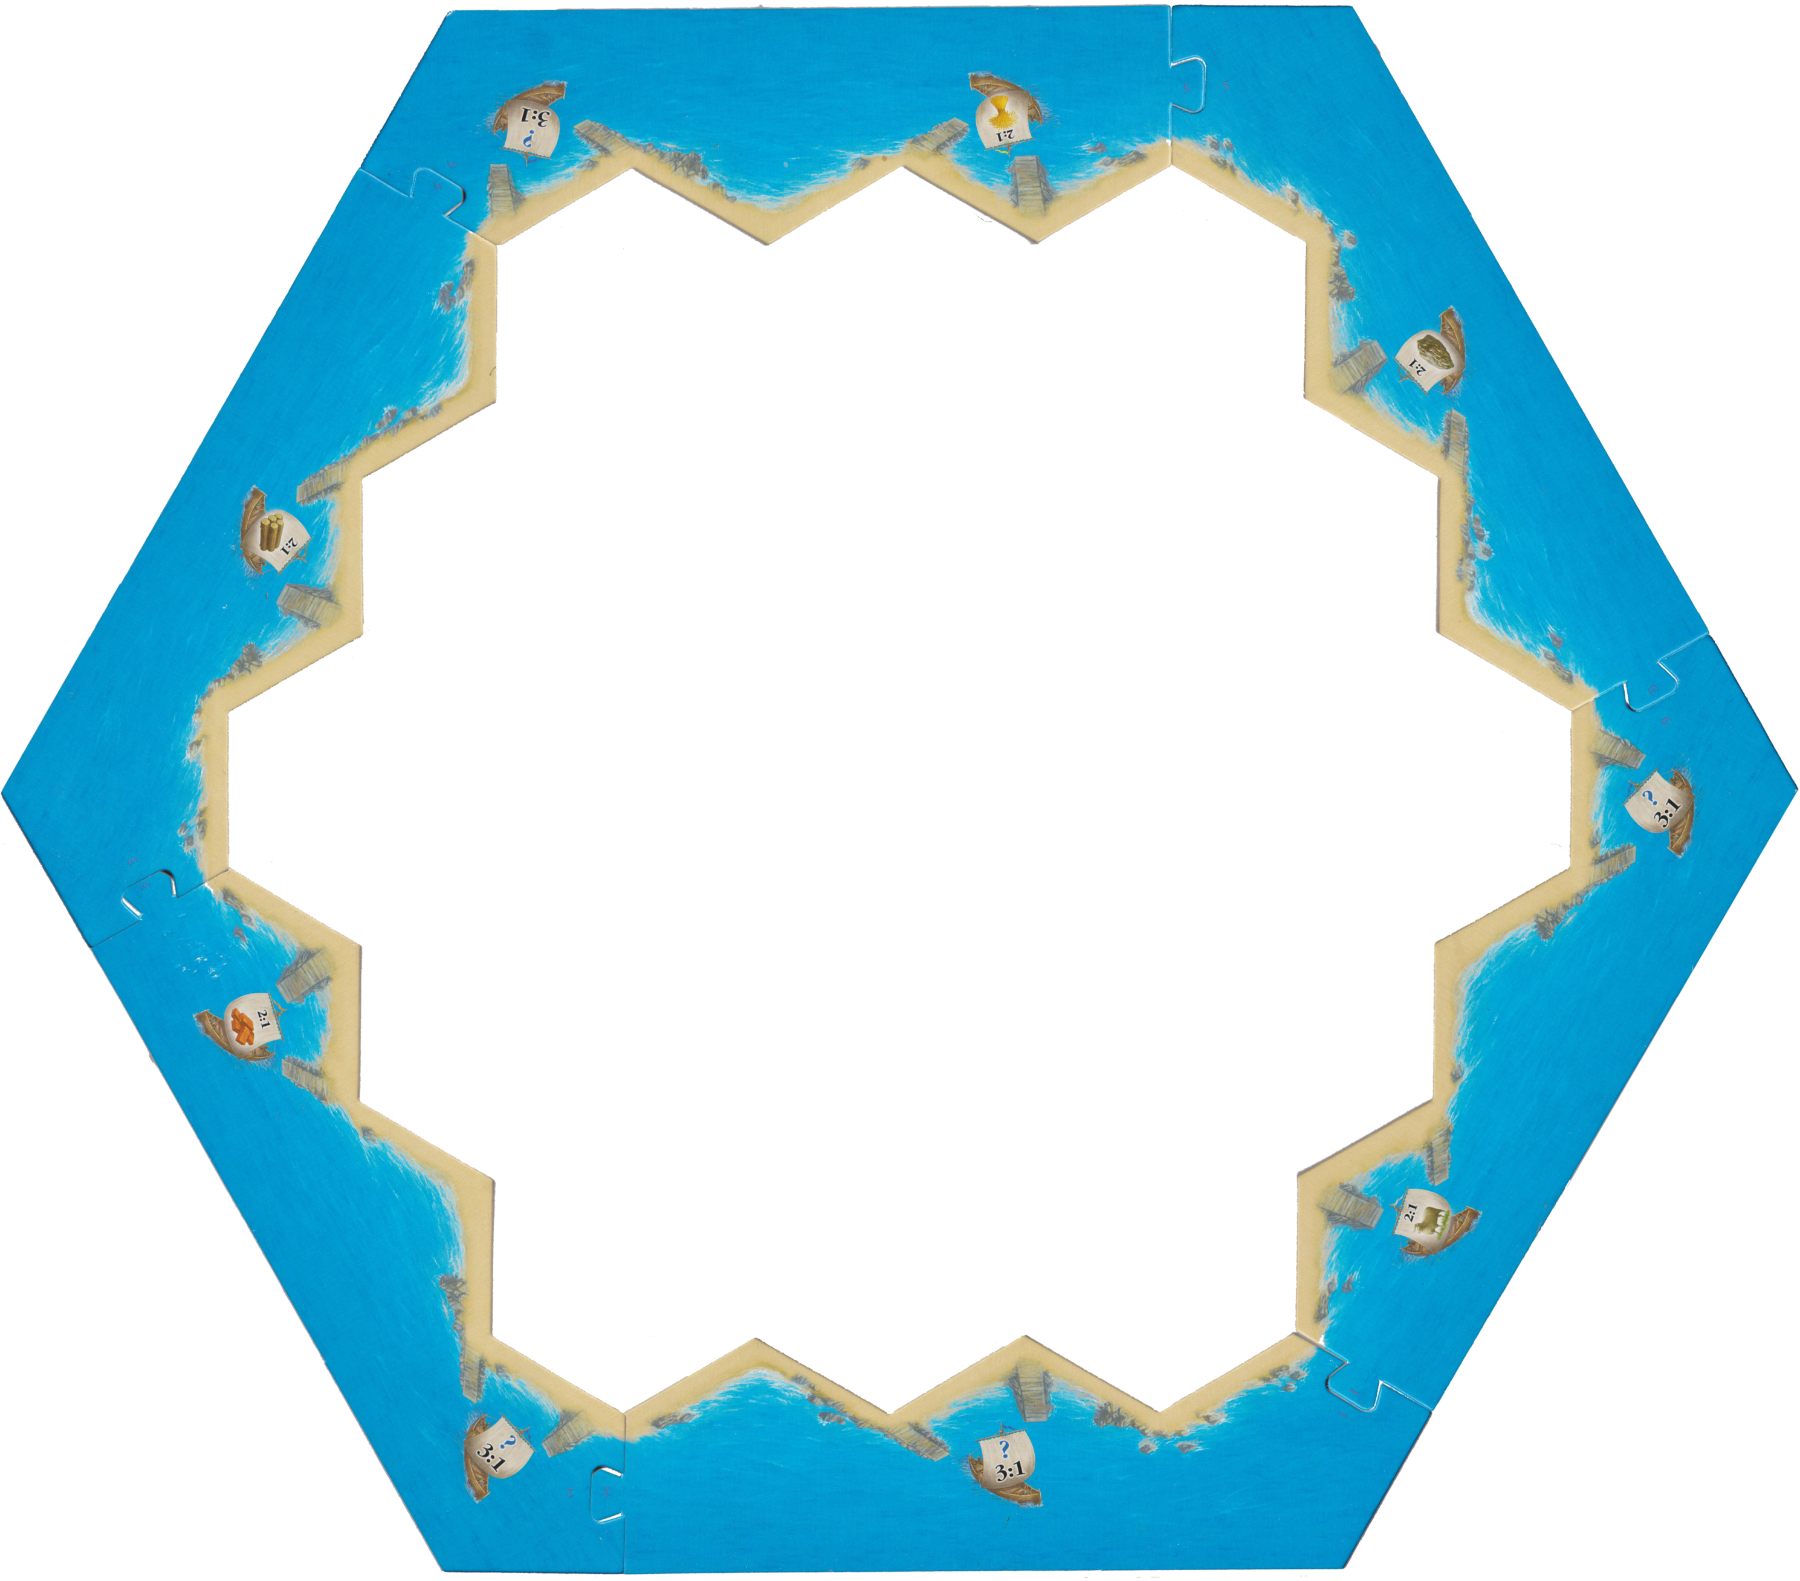
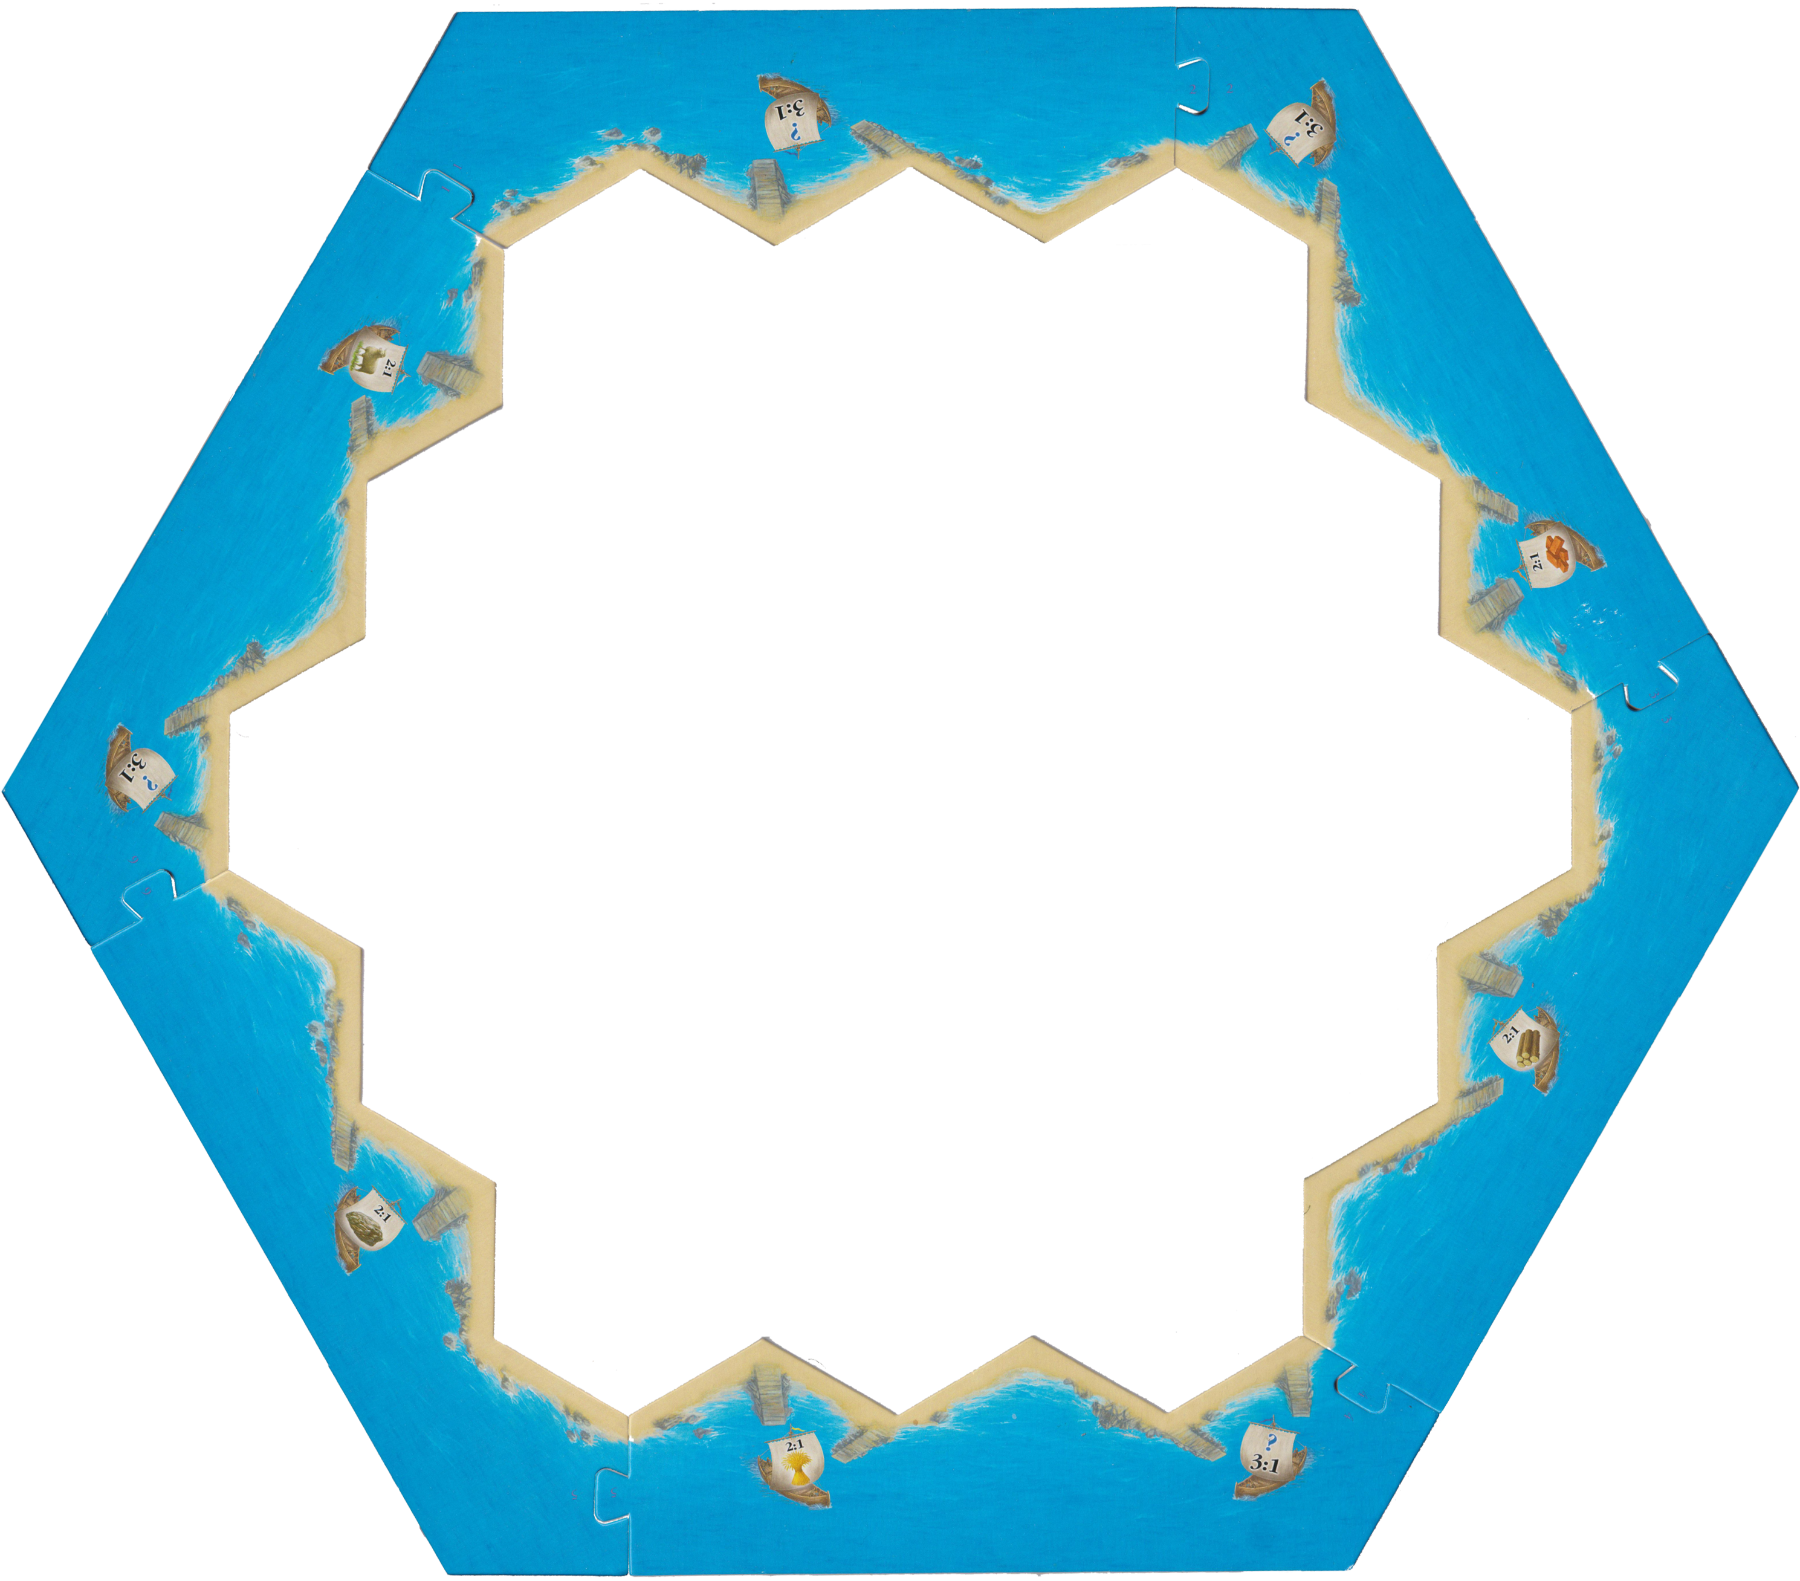
board drawing function no longer uses hard coded offsets. instead, it calculates placement location based on the size of the tile

diff --git a/re-des/insert.js b/re-des/insert.js
@@ -1,11 +1,68 @@
 
-let tileOffsetCSS = ["top:20.4%;left:33%;", "top:20.4%;", "top:20.4%;left:67%;", //first row
+let tileOffsetCSSWorking = ["top:20.4%;left:33%;", "top:20.4%;", "top:20.4%;left:67%;", //first row
   "top:35.2%;left:24.5%;", "top:35.2%;left:41.5%;", "top:35.2%;left:58.5%;", "top:35.2%;left:75.5%;", //second row
   "left:16%;", "left:33%;", " ", "left:67%;", "left:84%;", //third row
   "top:64.8%;left:24.5%;", "top:64.8%;left:41.5%;", "top:64.8%;left:58.5%;", "top:64.8%;left:75.5%;", //forth row
   "top:79.6%;left:33%;", "top:79.6%;", "top:79.6%;left:67%;"]; //fifth row
 
 
+// let tileOffsetCSS = [" ", "top:20.4%;", "top:50%;left:60%;", //first row
+// ]; //fifth row
+let size = 18.7;
+
+let tileOffsetCSS = getOffsets(size);
+//let tileOffsetCSS = ["top:50%;left50%", "top:50%;left66.454482676%", "top:50%;left82.908965352%"];
+
+
+function getOffsets(size) {
+  //THIS FUNCTION IS SO UGLY IM SO SORRY
+  let wO = (size * 1.732050808 / 2);
+  let hO = size;
+  let ans = [];
+
+  let startingY = 50 - 2 * (hO * .75);
+  let startingX = 50 - wO;
+
+  for (let i = 0; i < 3; i++) {
+    ans.push(`top:${startingY}%;left:${startingX + i * (wO)}%`)
+  }
+
+  startingY = 50 - 1 * (hO * .75);
+  startingX = 50 - wO * (1.5);
+
+  for (let i = 0; i < 4; i++) {
+    ans.push(`top:${startingY}%;left:${startingX + i * (wO)}%`)
+  }
+
+  startingY = 50;
+  startingX = 50 - wO * (2);
+
+  for (let i = 0; i < 5; i++) {
+    ans.push(`top:${startingY}%;left:${startingX + i * (wO)}%`)
+  }
+
+
+
+  startingY = 50 + 1 * (hO * .75);
+  startingX = 50 - wO * (1.5);
+
+  for (let i = 0; i < 4; i++) {
+    ans.push(`top:${startingY}%;left:${startingX + i * (wO)}%`)
+  }
+
+  startingY = 50 + 2 * (hO * .75);
+  startingX = 50 - wO;
+
+
+  for (let i = 0; i < 3; i++) {
+    ans.push(`top:${startingY}%;left:${startingX + i * (wO)}%`)
+  }
+  return ans;
+}
+
+
+
+let portCSS = ["top:35%;left:10%;", "top:10%;left:60%;", "top:10%;left:26%;", "top:23%;left:85%;", "top:50%;left:97%;", "top:75%;left:83%;", "top:75%;left:83%;"]
 //keeping this here for now bc im having trouble importing it
 let resourceTypes = ["ore", "sheep", "brick", "wood", "wheat", "desert"];
 let prob = ["", "", ".", "..", "...", "....", ".....", "", "....", "...", "..", "..", ".",]
@@ -44,6 +101,7 @@ let adjacencyList = {
 
 }
 
+let ports = ["wood-port", "wheat-port", "sheep-port", "brick-port", "three-port", "ore-port", "three-port", "three-port", "three-port",]
 
 
 
@@ -142,6 +200,17 @@ let buildBoard = () => {
                 </div>
             </div>`
   }
+
+
+  for (let [i, css] of portCSS.entries()) {
+    console.log(css)
+    document.getElementById('board').innerHTML +=
+      `<div class="port" style="${css}")>
+      </div>`
+  }
+
+
+
 }
 
 // This method is called when the button is pressed.
@@ -170,7 +239,7 @@ let generateTiles = () => {
   //     console.log("new board (before checking)")
   //     console.log(tiles)
   //   }
-  let tiles;;
+  let tiles;
   do {
     tiles = gen();
   } while (!passedAdjacencyTest(tiles) || !passedResourceCheck(tiles))

diff --git a/re-des/style.css b/re-des/style.css
@@ -12,7 +12,7 @@ html, body {
         width: 100vh;
         height:100vh;
         /* height: calc(100vw * (9/16)); */
-        background: rgb(0,153,211);
+        /* background: rgb(0,153,211); */
         position: absolute;
         right:0;
         /* top: 50%;
@@ -61,6 +61,24 @@ html, body {
         left:0;
         top:0;
         text-align: center;
+}
+#test-outer {
+  -webkit-clip-path: polygon(75% 0, 100% 49%, 75% 100%, 25% 100%, 0 50%, 25% 0);;
+  clip-path: polygon(75% 0, 100% 49%, 75% 100%, 25% 100%, 0 50%, 25% 0);
+  width:98vh;
+
+  height: calc(98vh * 1.732050808 / 2);
+  background: rgb(74, 83, 87);
+  background: rgb(0,153,211);
+  position: absolute;
+  left: 50%;
+  overflow: hidden;
+  top: 50%;
+
+  transform: translate(-50%, -50%);/*rotate(30deg); */
+  overflow-x: hidden;
+  /* background-size: 100% 100%; */
+  /* background: url(./assets/background.png); */
 }
 
 }
@@ -233,6 +251,20 @@ html, body {
   {
     background: url(./assets/desert.png);
     background-size: auto 100%;
+  }
+
+.port
+  {
+    background: url(./assets/wood-port.png);
+    background-size: auto 100%;
+    position: absolute;
+    left: 50%;
+    top: 50%;
+    transform: translate(-50%, -50%);
+    height:vw;
+    width: 6vw;
+    background-size: auto 100%;
+    background-repeat: no-repeat
   }
 
 
